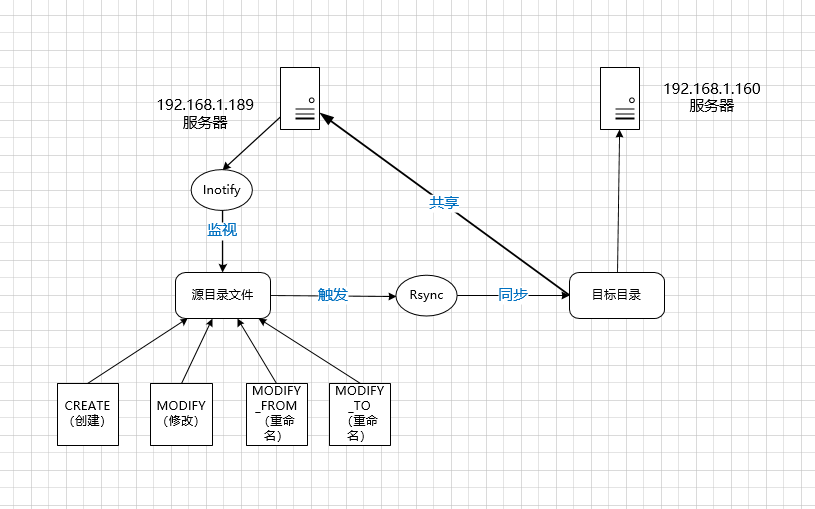
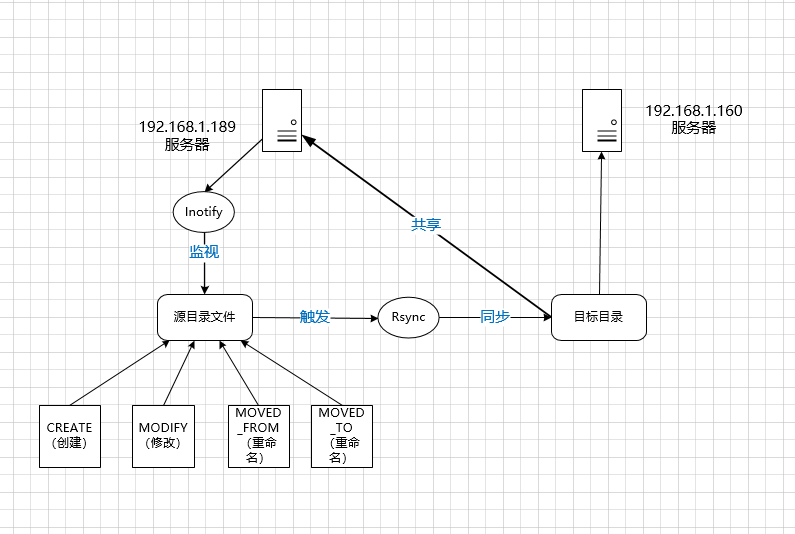
Site updated: 2022-12-27 12:32:38

Changed region(s): [[0.0, 0.0, 1.0, 1.0]]

diff --git a/archives/657b4685/index.html b/archives/657b4685/index.html
@@ -21,7 +21,7 @@
 <meta property="og:locale" content="zh_CN">
 <meta property="og:image" content="https://blog.hellshan.top/archives/657b4685/1.png">
 <meta property="article:published_time" content="2022-12-26T08:54:05.000Z">
-<meta property="article:modified_time" content="2022-12-27T01:14:54.739Z">
+<meta property="article:modified_time" content="2022-12-27T04:31:10.000Z">
 <meta property="article:author" content="HellShan">
 <meta property="article:tag" content="AD">
 <meta property="article:tag" content="database">
@@ -198,8 +198,8 @@
 <p>需要注意的是，windows版的rsync指定源目录和目标目录时要以/cygdrive开头。<br>rsync的参数可以从官网获得。其中：<br>-a, –archive 归档模式，表示以递归方式传输文件，并保持所有文件属性<br>-v, –verbose 详细模式输出<br>-z, –compress 对备份的文件在传输时进行压缩处理<br>—delete 删除那些目标目录中源目录没有的文件<br>–-progress 显示备份过程</p>
 <p>如果没有错误输出说明软件和设置是正常的。</p>
 <h3 id="使用python执行触发"><a href="#使用python执行触发" class="headerlink" title="使用python执行触发"></a>使用python执行触发</h3><p>先上脚本代码，该代码也是网上找的，修改适配python3.6或以上版本，使用subprocess模块来启动进程。</p>
-<figure class="highlight py"><table><tr><td class="gutter"><pre><span class="line">1</span><br><span class="line">2</span><br><span class="line">3</span><br><span class="line">4</span><br><span class="line">5</span><br><span class="line">6</span><br><span class="line">7</span><br><span class="line">8</span><br><span class="line">9</span><br><span class="line">10</span><br><span class="line">11</span><br><span class="line">12</span><br><span class="line">13</span><br><span class="line">14</span><br><span class="line">15</span><br><span class="line">16</span><br><span class="line">17</span><br><span class="line">18</span><br><span class="line">19</span><br><span class="line">20</span><br><span class="line">21</span><br><span class="line">22</span><br><span class="line">23</span><br><span class="line">24</span><br><span class="line">25</span><br><span class="line">26</span><br><span class="line">27</span><br><span class="line">28</span><br><span class="line">29</span><br><span class="line">30</span><br><span class="line">31</span><br><span class="line">32</span><br><span class="line">33</span><br><span class="line">34</span><br><span class="line">35</span><br><span class="line">36</span><br><span class="line">37</span><br><span class="line">38</span><br><span class="line">39</span><br><span class="line">40</span><br><span class="line">41</span><br><span class="line">42</span><br><span class="line">43</span><br><span class="line">44</span><br><span class="line">45</span><br><span class="line">46</span><br><span class="line">47</span><br><span class="line">48</span><br><span class="line">49</span><br><span class="line">50</span><br><span class="line">51</span><br><span class="line">52</span><br><span class="line">53</span><br><span class="line">54</span><br><span class="line">55</span><br><span class="line">56</span><br><span class="line">57</span><br><span class="line">58</span><br><span class="line">59</span><br><span class="line">60</span><br><span class="line">61</span><br><span class="line">62</span><br><span class="line">63</span><br><span class="line">64</span><br><span class="line">65</span><br><span class="line">66</span><br><span class="line">67</span><br><span class="line">68</span><br><span class="line">69</span><br><span class="line">70</span><br><span class="line">71</span><br><span class="line">72</span><br><span class="line">73</span><br><span class="line">74</span><br><span class="line">75</span><br><span class="line">76</span><br><span class="line">77</span><br><span class="line">78</span><br><span class="line">79</span><br><span class="line">80</span><br><span class="line">81</span><br><span class="line">82</span><br><span class="line">83</span><br><span class="line">84</span><br><span class="line">85</span><br><span class="line">86</span><br></pre></td><td class="code"><pre><span class="line"><span class="comment">#-*- coding: utf-8 -*-</span></span><br><span class="line"><span class="keyword">import</span> subprocess</span><br><span class="line"><span class="keyword">import</span> os</span><br><span class="line"><span class="comment"># import smtplib</span></span><br><span class="line"><span class="comment"># from email.mime.text import MIMEText</span></span><br><span class="line"><span class="comment"># from email.mime.multipart import MIMEMultipart</span></span><br><span class="line"><span class="comment"># from email.header import Header</span></span><br><span class="line">rsyncSrc=<span class="string">&#x27;C:\\123&#x27;</span></span><br><span class="line">rsyncDes=<span class="string">&#x27;/cygdrive/c/111&#x27;</span></span><br><span class="line">listen=<span class="string">&#x27;C:\inotifywait.exe -mrq --format &quot;%%e %%w\%%f&quot; &quot;C:\\123&quot;&#x27;</span></span><br><span class="line">popen=subprocess.Popen(listen,stdout=subprocess.PIPE,stderr=subprocess.PIPE)</span><br><span class="line"></span><br><span class="line"><span class="comment"># def smail(mailfrom,receivers,subject,body,att):</span></span><br><span class="line"><span class="comment"># sender = &#x27;devops@netinn.net&#x27;</span></span><br><span class="line"><span class="comment"># mailtotag = &#x27;devops all&#x27;</span></span><br><span class="line"><span class="comment"># smtpserver = &#x27;smtp.netinn.net&#x27;</span></span><br><span class="line"><span class="comment"># username = &#x27;devops@netinn.net&#x27;</span></span><br><span class="line"><span class="comment"># password = &#x27;Test123456&#x27; </span></span><br><span class="line"></span><br><span class="line"><span class="comment">#创建一个带附件的实例</span></span><br><span class="line"><span class="comment"># message = MIMEMultipart()</span></span><br><span class="line"><span class="comment"># message[&#x27;From&#x27;] = Header(mailfrom, &#x27;utf-8&#x27;)</span></span><br><span class="line"><span class="comment"># message[&#x27;To&#x27;] = Header(mailtotag, &#x27;utf-8&#x27;)</span></span><br><span class="line"><span class="comment"># message[&#x27;Subject&#x27;] = Header(subject, &#x27;utf-8&#x27;)</span></span><br><span class="line"></span><br><span class="line"><span class="comment">#邮件正文内容</span></span><br><span class="line"><span class="comment"># if isinstance(body,unicode):</span></span><br><span class="line"><span class="comment"># body = str(body)</span></span><br><span class="line"><span class="comment"># message.attach(MIMEText(body, &#x27;plain&#x27;, &#x27;utf-8&#x27;))</span></span><br><span class="line"></span><br><span class="line"><span class="comment"># 构造附件1，传送当前目录下的 test.txt 文件</span></span><br><span class="line"><span class="comment"># att1 = MIMEText(open(att, &#x27;rb&#x27;).read(), &#x27;base64&#x27;, &#x27;utf-8&#x27;)</span></span><br><span class="line"><span class="comment"># att1[&quot;Content-Type&quot;] = &#x27;application/octet-stream&#x27;</span></span><br><span class="line"><span class="comment"># 这里的filename可以任意写，写什么名字，邮件中显示什么名字</span></span><br><span class="line"><span class="comment"># att1[&quot;Content-Disposition&quot;] = &#x27;attachment; filename=log&#x27;</span></span><br><span class="line"><span class="comment"># message.attach(att1)</span></span><br><span class="line"></span><br><span class="line"><span class="comment"># att2 = MIMEText(open(att, &#x27;rb&#x27;).read(), &#x27;base64&#x27;, &#x27;utf-8&#x27;)</span></span><br><span class="line"><span class="comment"># att2[&quot;Content-Type&quot;] = &#x27;application/octet-stream&#x27;</span></span><br><span class="line"><span class="comment"># att2[&quot;Content-Disposition&quot;] = &#x27;attachment; filename=att&#x27;</span></span><br><span class="line"><span class="comment">#message.attach(att2)</span></span><br><span class="line"></span><br><span class="line"><span class="comment"># message[&quot;Accept-Language&quot;] = &quot;zh-CN&quot;</span></span><br><span class="line"><span class="comment"># message[&quot;Accept-Charset&quot;] = &quot;ISO-8859-1,utf-8&quot;</span></span><br><span class="line"></span><br><span class="line"><span class="comment"># try:</span></span><br><span class="line"><span class="comment"># smtpObj = smtplib.SMTP(smtpserver)</span></span><br><span class="line"><span class="comment"># smtpObj.login(username, password)</span></span><br><span class="line"><span class="comment"># smtpObj.sendmail(sender, receivers, message.as_string())</span></span><br><span class="line"><span class="comment"># print &quot;mail send&quot;</span></span><br><span class="line"><span class="comment"># except smtplib.SMTPException:</span></span><br><span class="line"><span class="comment"># print &quot;Error: send failed&quot;</span></span><br><span class="line"></span><br><span class="line"><span class="comment"># mailfrom=&#x27;cop@quyiyuan.com&#x27;</span></span><br><span class="line"><span class="comment"># receivers = [&#x27;xx@netinn.net&#x27;,&#x27;xx@netinn.net&#x27;,&#x27;xx@qq.com&#x27;,&#x27;xx@hotmail.com&#x27;,&#x27;xx@xx.com&#x27;,&#x27;xx@xx.com&#x27;] # 接收邮件</span></span><br><span class="line"></span><br><span class="line"><span class="keyword">while</span> <span class="literal">True</span>:</span><br><span class="line">    line=popen.stdout.readline().strip()</span><br><span class="line">    <span class="comment"># print(line)</span></span><br><span class="line">    lineArr=line.decode().split(<span class="string">&#x27; &#x27;</span>)</span><br><span class="line">    oper=lineArr[<span class="number">0</span>]</span><br><span class="line">    file=lineArr[<span class="number">1</span>]</span><br><span class="line">    touched=<span class="literal">False</span></span><br><span class="line">    <span class="comment"># print(file)</span></span><br><span class="line">    <span class="keyword">if</span> file.index(rsyncSrc)==<span class="number">0</span>:</span><br><span class="line">        <span class="keyword">if</span> (oper==<span class="string">&#x27;MODIFY&#x27;</span>) <span class="keyword">or</span> (oper==<span class="string">&#x27;CREATE&#x27;</span>) <span class="keyword">or</span> (oper==<span class="string">&#x27;MODIFY_FROM&#x27;</span>) <span class="keyword">or</span> (oper==<span class="string">&#x27;MODIFY_TO&#x27;</span>) <span class="keyword">or</span> (oper==<span class="string">&#x27;DELETE&#x27;</span>):</span><br><span class="line">            _cureent_file=file.replace(rsyncSrc,<span class="string">&#x27;/cygdrive/c/123&#x27;</span>)</span><br><span class="line">            cureent_file=_cureent_file.replace(<span class="string">&#x27;\\&#x27;</span>,<span class="string">&#x27;/&#x27;</span>)</span><br><span class="line">            <span class="comment"># print(cureent_file)</span></span><br><span class="line">            cmd=<span class="string">&#x27;set CYGWIN=nodosfilewarning &amp;&amp; cd /d &#x27;</span>+rsyncSrc+<span class="string">&#x27; &amp;&amp; &#x27;</span>+<span class="string">&#x27;start /b rsync -avz --port=873 --delete --progress &#x27;</span>+cureent_file+<span class="string">&#x27; &#x27;</span>+rsyncDes+<span class="string">&#x27; 2&gt;C:\\rsynclog\\error.log&#x27;</span></span><br><span class="line">            touched=<span class="literal">True</span></span><br><span class="line">            <span class="keyword">if</span> touched:</span><br><span class="line">                print(cmd)</span><br><span class="line">                rsyncAction=os.popen(cmd)</span><br><span class="line">                rsyncStat=rsyncAction.read()</span><br><span class="line">                <span class="keyword">if</span> <span class="string">&quot;speedup is&quot;</span> <span class="keyword">in</span> rsyncStat:</span><br><span class="line">                    print(file+<span class="string">&#x27; rsynced!&#x27;</span>)</span><br><span class="line">                    print(rsyncStat)</span><br><span class="line">                <span class="keyword">else</span>:</span><br><span class="line">                    print(file+<span class="string">&#x27; rsync failed!&#x27;</span>)</span><br><span class="line">                    <span class="comment"># att=&#x27;D:\\logs\\error.log&#x27;</span></span><br><span class="line">                    <span class="comment"># subject =&#x27;SyncError:&#x27;+file</span></span><br><span class="line">                    <span class="comment"># body=rsyncStat</span></span><br><span class="line"><span class="comment">#smail(mailfrom,receivers,subject,body,att)</span></span><br><span class="line"><span class="comment">#rsyncAction=subprocess.check_output(cmd1)</span></span><br><span class="line"><span class="comment">#rsyncAction=subprocess.check_output(cmd,stdout=subprocess.PIPE,stderr=subprocess.STDOUT,shell=True)</span></span><br></pre></td></tr></table></figure>
-<p>该代码还带邮件发送功能，因为没用到所以注释掉。该代码还有python识别中文字符的问题，还有待改进，目前非中文的文件已经测试正常。</p>
+<figure class="highlight py"><table><tr><td class="gutter"><pre><span class="line">1</span><br><span class="line">2</span><br><span class="line">3</span><br><span class="line">4</span><br><span class="line">5</span><br><span class="line">6</span><br><span class="line">7</span><br><span class="line">8</span><br><span class="line">9</span><br><span class="line">10</span><br><span class="line">11</span><br><span class="line">12</span><br><span class="line">13</span><br><span class="line">14</span><br><span class="line">15</span><br><span class="line">16</span><br><span class="line">17</span><br><span class="line">18</span><br><span class="line">19</span><br><span class="line">20</span><br><span class="line">21</span><br><span class="line">22</span><br><span class="line">23</span><br><span class="line">24</span><br><span class="line">25</span><br><span class="line">26</span><br><span class="line">27</span><br><span class="line">28</span><br><span class="line">29</span><br><span class="line">30</span><br><span class="line">31</span><br><span class="line">32</span><br><span class="line">33</span><br><span class="line">34</span><br><span class="line">35</span><br><span class="line">36</span><br><span class="line">37</span><br><span class="line">38</span><br><span class="line">39</span><br><span class="line">40</span><br><span class="line">41</span><br><span class="line">42</span><br><span class="line">43</span><br><span class="line">44</span><br><span class="line">45</span><br><span class="line">46</span><br><span class="line">47</span><br><span class="line">48</span><br><span class="line">49</span><br><span class="line">50</span><br><span class="line">51</span><br><span class="line">52</span><br><span class="line">53</span><br><span class="line">54</span><br><span class="line">55</span><br><span class="line">56</span><br><span class="line">57</span><br><span class="line">58</span><br><span class="line">59</span><br><span class="line">60</span><br><span class="line">61</span><br><span class="line">62</span><br><span class="line">63</span><br><span class="line">64</span><br><span class="line">65</span><br><span class="line">66</span><br><span class="line">67</span><br><span class="line">68</span><br><span class="line">69</span><br><span class="line">70</span><br><span class="line">71</span><br><span class="line">72</span><br><span class="line">73</span><br><span class="line">74</span><br><span class="line">75</span><br><span class="line">76</span><br><span class="line">77</span><br><span class="line">78</span><br><span class="line">79</span><br><span class="line">80</span><br><span class="line">81</span><br><span class="line">82</span><br><span class="line">83</span><br><span class="line">84</span><br><span class="line">85</span><br><span class="line">86</span><br><span class="line">87</span><br></pre></td><td class="code"><pre><span class="line"><span class="comment">#-*- coding: utf-8 -*-</span></span><br><span class="line"><span class="keyword">import</span> subprocess</span><br><span class="line"><span class="keyword">import</span> os</span><br><span class="line"><span class="comment"># import smtplib</span></span><br><span class="line"><span class="comment"># from email.mime.text import MIMEText</span></span><br><span class="line"><span class="comment"># from email.mime.multipart import MIMEMultipart</span></span><br><span class="line"><span class="comment"># from email.header import Header</span></span><br><span class="line">rsyncSrc=<span class="string">&#x27;C:\\123&#x27;</span></span><br><span class="line">rsyncDes=<span class="string">&#x27;/cygdrive/c/111&#x27;</span></span><br><span class="line">listen=<span class="string">&#x27;C:\inotifywait.exe -mrq --format &quot;%%e %%w\%%f&quot; &quot;C:\\123&quot;&#x27;</span></span><br><span class="line">popen=subprocess.Popen(listen,stdout=subprocess.PIPE,stderr=subprocess.PIPE)</span><br><span class="line"></span><br><span class="line"><span class="comment"># def smail(mailfrom,receivers,subject,body,att):</span></span><br><span class="line"><span class="comment"># sender = &#x27;devops@netinn.net&#x27;</span></span><br><span class="line"><span class="comment"># mailtotag = &#x27;devops all&#x27;</span></span><br><span class="line"><span class="comment"># smtpserver = &#x27;smtp.netinn.net&#x27;</span></span><br><span class="line"><span class="comment"># username = &#x27;devops@netinn.net&#x27;</span></span><br><span class="line"><span class="comment"># password = &#x27;Test123456&#x27; </span></span><br><span class="line"></span><br><span class="line"><span class="comment">#创建一个带附件的实例</span></span><br><span class="line"><span class="comment"># message = MIMEMultipart()</span></span><br><span class="line"><span class="comment"># message[&#x27;From&#x27;] = Header(mailfrom, &#x27;utf-8&#x27;)</span></span><br><span class="line"><span class="comment"># message[&#x27;To&#x27;] = Header(mailtotag, &#x27;utf-8&#x27;)</span></span><br><span class="line"><span class="comment"># message[&#x27;Subject&#x27;] = Header(subject, &#x27;utf-8&#x27;)</span></span><br><span class="line"></span><br><span class="line"><span class="comment">#邮件正文内容</span></span><br><span class="line"><span class="comment"># if isinstance(body,unicode):</span></span><br><span class="line"><span class="comment"># body = str(body)</span></span><br><span class="line"><span class="comment"># message.attach(MIMEText(body, &#x27;plain&#x27;, &#x27;utf-8&#x27;))</span></span><br><span class="line"></span><br><span class="line"><span class="comment"># 构造附件1，传送当前目录下的 test.txt 文件</span></span><br><span class="line"><span class="comment"># att1 = MIMEText(open(att, &#x27;rb&#x27;).read(), &#x27;base64&#x27;, &#x27;utf-8&#x27;)</span></span><br><span class="line"><span class="comment"># att1[&quot;Content-Type&quot;] = &#x27;application/octet-stream&#x27;</span></span><br><span class="line"><span class="comment"># 这里的filename可以任意写，写什么名字，邮件中显示什么名字</span></span><br><span class="line"><span class="comment"># att1[&quot;Content-Disposition&quot;] = &#x27;attachment; filename=log&#x27;</span></span><br><span class="line"><span class="comment"># message.attach(att1)</span></span><br><span class="line"></span><br><span class="line"><span class="comment"># att2 = MIMEText(open(att, &#x27;rb&#x27;).read(), &#x27;base64&#x27;, &#x27;utf-8&#x27;)</span></span><br><span class="line"><span class="comment"># att2[&quot;Content-Type&quot;] = &#x27;application/octet-stream&#x27;</span></span><br><span class="line"><span class="comment"># att2[&quot;Content-Disposition&quot;] = &#x27;attachment; filename=att&#x27;</span></span><br><span class="line"><span class="comment">#message.attach(att2)</span></span><br><span class="line"></span><br><span class="line"><span class="comment"># message[&quot;Accept-Language&quot;] = &quot;zh-CN&quot;</span></span><br><span class="line"><span class="comment"># message[&quot;Accept-Charset&quot;] = &quot;ISO-8859-1,utf-8&quot;</span></span><br><span class="line"></span><br><span class="line"><span class="comment"># try:</span></span><br><span class="line"><span class="comment"># smtpObj = smtplib.SMTP(smtpserver)</span></span><br><span class="line"><span class="comment"># smtpObj.login(username, password)</span></span><br><span class="line"><span class="comment"># smtpObj.sendmail(sender, receivers, message.as_string())</span></span><br><span class="line"><span class="comment"># print &quot;mail send&quot;</span></span><br><span class="line"><span class="comment"># except smtplib.SMTPException:</span></span><br><span class="line"><span class="comment"># print &quot;Error: send failed&quot;</span></span><br><span class="line"></span><br><span class="line"><span class="comment"># mailfrom=&#x27;cop@quyiyuan.com&#x27;</span></span><br><span class="line"><span class="comment"># receivers = [&#x27;xx@netinn.net&#x27;,&#x27;xx@netinn.net&#x27;,&#x27;xx@qq.com&#x27;,&#x27;xx@hotmail.com&#x27;,&#x27;xx@xx.com&#x27;,&#x27;xx@xx.com&#x27;] # 接收邮件</span></span><br><span class="line"></span><br><span class="line"><span class="keyword">while</span> <span class="literal">True</span>:</span><br><span class="line">    line=popen.stdout.readline().strip()</span><br><span class="line">    <span class="comment"># print(line)</span></span><br><span class="line">    <span class="comment"># lineArr=line.decode(&#x27;utf-8&#x27;).split(&#x27; &#x27;)</span></span><br><span class="line">    lineArr=line.decode(<span class="string">&#x27;gbk&#x27;</span>).split(<span class="string">&#x27; &#x27;</span>)</span><br><span class="line">    oper=lineArr[<span class="number">0</span>]</span><br><span class="line">    file=lineArr[<span class="number">1</span>]</span><br><span class="line">    touched=<span class="literal">False</span></span><br><span class="line">    <span class="comment"># print(file)</span></span><br><span class="line">    <span class="keyword">if</span> file.index(rsyncSrc)==<span class="number">0</span>:</span><br><span class="line">        <span class="keyword">if</span> (oper==<span class="string">&#x27;MODIFY&#x27;</span>) <span class="keyword">or</span> (oper==<span class="string">&#x27;CREATE&#x27;</span>) <span class="keyword">or</span> (oper==<span class="string">&#x27;MOVED_FROM&#x27;</span>) <span class="keyword">or</span> (oper==<span class="string">&#x27;MOVED_TO&#x27;</span>) <span class="keyword">or</span> (oper==<span class="string">&#x27;DELETE&#x27;</span>):</span><br><span class="line">            _cureent_file=file.replace(rsyncSrc,<span class="string">&#x27;/cygdrive/c/123&#x27;</span>)</span><br><span class="line">            cureent_file=_cureent_file.replace(<span class="string">&#x27;\\&#x27;</span>,<span class="string">&#x27;/&#x27;</span>)</span><br><span class="line">            <span class="comment"># print(cureent_file)</span></span><br><span class="line">            cmd=<span class="string">&#x27;set CYGWIN=nodosfilewarning &amp;&amp; cd /d &#x27;</span>+rsyncSrc+<span class="string">&#x27; &amp;&amp; &#x27;</span>+<span class="string">&#x27;start /b rsync -avz --progress --ignore-errors &#x27;</span>+cureent_file+<span class="string">&#x27; &#x27;</span>+rsyncDes+<span class="string">&#x27; 2&gt;&gt;C:\\rsynclog\\error.log&#x27;</span></span><br><span class="line">            touched=<span class="literal">True</span></span><br><span class="line">            <span class="keyword">if</span> touched:</span><br><span class="line">                <span class="comment">#print(cmd)</span></span><br><span class="line">                rsyncAction=os.popen(cmd)</span><br><span class="line">                rsyncStat=rsyncAction.read()</span><br><span class="line">                <span class="keyword">if</span> <span class="string">&quot;speedup is&quot;</span> <span class="keyword">in</span> rsyncStat:</span><br><span class="line">                    print(file+<span class="string">&#x27; rsynced!&#x27;</span>)</span><br><span class="line">                    print(rsyncStat)</span><br><span class="line">                <span class="keyword">else</span>:</span><br><span class="line">                    print(file+<span class="string">&#x27; rsync failed!&#x27;</span>)</span><br><span class="line">                    <span class="comment"># att=&#x27;D:\\logs\\error.log&#x27;</span></span><br><span class="line">                    <span class="comment"># subject =&#x27;SyncError:&#x27;+file</span></span><br><span class="line">                    <span class="comment"># body=rsyncStat</span></span><br><span class="line"><span class="comment">#smail(mailfrom,receivers,subject,body,att)</span></span><br><span class="line"><span class="comment">#rsyncAction=subprocess.check_output(cmd1)</span></span><br><span class="line"><span class="comment">#rsyncAction=subprocess.check_output(cmd,stdout=subprocess.PIPE,stderr=subprocess.STDOUT,shell=True)</span></span><br></pre></td></tr></table></figure>
+<p>该代码还带邮件发送功能，因为没用到所以注释掉。</p>
 <p>命令提示符运行测试，把代码保存为inotify+rsync.py：<br><code>python inotify+rsync.py</code></p>
 <p><img src="/archives/657b4685/6.png" alt=" "></p>
 <p>测试OK！</p>
@@ -210,7 +210,7 @@
 
 
 
-    <a data-url="https://blog.hellshan.top/archives/657b4685/" data-id="clc5jyn3q000lm1o921l8bpt8" class="article-share-link"><i class="fa fa-share"></i>分享到</a>
+    <a data-url="https://blog.hellshan.top/archives/657b4685/" data-id="clc5qfaf9000l6po91qahea5f" class="article-share-link"><i class="fa fa-share"></i>分享到</a>
 <script>
     (function ($) {
         $('body').on('click', function() {
@@ -290,7 +290,7 @@
         "url": "https://blog.hellshan.top/archives/657b4685/",
         "description": "
 前言很多企业（特别是制造业）都通过收费的软件进行共享文件服务器的备份，而中小企业基于成本问题，往往会使用免费的软件，例如feefilesync就是一个比较优秀的开源备份同步软件。但是有些场合需要用到实时同步，备份软件做不了实时同步或者只能做到文件量不大的同步，如feefilesync有实时同步功能，文件较少的时候还是挺好用的，可以做到以秒为单位的文件同步，缺点是每次同步的时候都会扫一遍目录，通过",
-        "wordCount": 839
+        "wordCount": 849
     }
 </script>
 

diff --git a/categories/index.html b/categories/index.html
@@ -154,7 +154,7 @@
 
 
 
-    <a data-url="https://blog.hellshan.top/categories/index.html" data-id="clc5jyn3e0006m1o93fu7bvt5" class="article-share-link"><i class="fa fa-share"></i>分享到</a>
+    <a data-url="https://blog.hellshan.top/categories/index.html" data-id="clc5qfaew00066po92y56gcft" class="article-share-link"><i class="fa fa-share"></i>分享到</a>
 <script>
     (function ($) {
         $('body').on('click', function() {

diff --git a/archives/7c1819b2/index.html b/archives/7c1819b2/index.html
@@ -225,7 +225,7 @@ vfio
 
 
 
-    <a data-url="https://blog.hellshan.top/archives/7c1819b2/" data-id="clc5jyn3l000gm1o90a7w9wyi" class="article-share-link"><i class="fa fa-share"></i>分享到</a>
+    <a data-url="https://blog.hellshan.top/archives/7c1819b2/" data-id="clc5qfaf3000g6po94l658l45" class="article-share-link"><i class="fa fa-share"></i>分享到</a>
 <script>
     (function ($) {
         $('body').on('click', function() {

diff --git a/dashboard/index.html b/dashboard/index.html
@@ -154,7 +154,7 @@
 
 
 
-    <a data-url="https://blog.hellshan.top/dashboard/index.html" data-id="clc5jyn3h000am1o9awsu40ae" class="article-share-link"><i class="fa fa-share"></i>分享到</a>
+    <a data-url="https://blog.hellshan.top/dashboard/index.html" data-id="clc5qfaf0000a6po9hags4g1k" class="article-share-link"><i class="fa fa-share"></i>分享到</a>
 <script>
     (function ($) {
         $('body').on('click', function() {

diff --git a/archives/15b0611c/index.html b/archives/15b0611c/index.html
@@ -303,7 +303,7 @@
 
 
 
-    <a data-url="https://blog.hellshan.top/archives/15b0611c/" data-id="clc5jyn4r002sm1o9308qgika" class="article-share-link"><i class="fa fa-share"></i>分享到</a>
+    <a data-url="https://blog.hellshan.top/archives/15b0611c/" data-id="clc5qfagi002s6po91uz6el7e" class="article-share-link"><i class="fa fa-share"></i>分享到</a>
 <script>
     (function ($) {
         $('body').on('click', function() {

diff --git a/archives/18899723/index.html b/archives/18899723/index.html
@@ -211,7 +211,7 @@
 
 
 
-    <a data-url="https://blog.hellshan.top/archives/18899723/" data-id="clc5jyn3t000rm1o9e2rtgkgo" class="article-share-link"><i class="fa fa-share"></i>分享到</a>
+    <a data-url="https://blog.hellshan.top/archives/18899723/" data-id="clc5qfafc000r6po9cajwgy7m" class="article-share-link"><i class="fa fa-share"></i>分享到</a>
 <script>
     (function ($) {
         $('body').on('click', function() {

diff --git a/archives/26f5a537/index.html b/archives/26f5a537/index.html
@@ -227,7 +227,7 @@
 
 
 
-    <a data-url="https://blog.hellshan.top/archives/26f5a537/" data-id="clc5jyn3f0007m1o90p023c51" class="article-share-link"><i class="fa fa-share"></i>分享到</a>
+    <a data-url="https://blog.hellshan.top/archives/26f5a537/" data-id="clc5qfaex00076po9gb1r2fn3" class="article-share-link"><i class="fa fa-share"></i>分享到</a>
 <script>
     (function ($) {
         $('body').on('click', function() {

diff --git a/archives/28b8f600/index.html b/archives/28b8f600/index.html
@@ -203,7 +203,7 @@
 
 
 
-    <a data-url="https://blog.hellshan.top/archives/28b8f600/" data-id="clc5jyn3j000fm1o96jphhp72" class="article-share-link"><i class="fa fa-share"></i>分享到</a>
+    <a data-url="https://blog.hellshan.top/archives/28b8f600/" data-id="clc5qfaf2000f6po9dl38f3qq" class="article-share-link"><i class="fa fa-share"></i>分享到</a>
 <script>
     (function ($) {
         $('body').on('click', function() {

diff --git a/archives/31bd6bb1/index.html b/archives/31bd6bb1/index.html
@@ -210,7 +210,7 @@
 
 
 
-    <a data-url="https://blog.hellshan.top/archives/31bd6bb1/" data-id="clc5jyn4f0028m1o9feynfeku" class="article-share-link"><i class="fa fa-share"></i>分享到</a>
+    <a data-url="https://blog.hellshan.top/archives/31bd6bb1/" data-id="clc5qfag500286po939prdg67" class="article-share-link"><i class="fa fa-share"></i>分享到</a>
 <script>
     (function ($) {
         $('body').on('click', function() {

diff --git a/archives/34986ae2/index.html b/archives/34986ae2/index.html
@@ -343,7 +343,7 @@
 
 
 
-    <a data-url="https://blog.hellshan.top/archives/34986ae2/" data-id="clc5jyn42001bm1o96jriaubx" class="article-share-link"><i class="fa fa-share"></i>分享到</a>
+    <a data-url="https://blog.hellshan.top/archives/34986ae2/" data-id="clc5qfafl001b6po9abuif1yl" class="article-share-link"><i class="fa fa-share"></i>分享到</a>
 <script>
     (function ($) {
         $('body').on('click', function() {

diff --git a/archives/41789693/index.html b/archives/41789693/index.html
@@ -228,7 +228,7 @@
 
 
 
-    <a data-url="https://blog.hellshan.top/archives/41789693/" data-id="clc5jyn4t002wm1o953fmb4uz" class="article-share-link"><i class="fa fa-share"></i>分享到</a>
+    <a data-url="https://blog.hellshan.top/archives/41789693/" data-id="clc5qfagj002w6po9frwy2p49" class="article-share-link"><i class="fa fa-share"></i>分享到</a>
 <script>
     (function ($) {
         $('body').on('click', function() {

diff --git a/archives/42ad09e8/index.html b/archives/42ad09e8/index.html
@@ -409,7 +409,7 @@
 
 
 
-    <a data-url="https://blog.hellshan.top/archives/42ad09e8/" data-id="clc5jyn5z007hm1o97pacgbq0" class="article-share-link"><i class="fa fa-share"></i>分享到</a>
+    <a data-url="https://blog.hellshan.top/archives/42ad09e8/" data-id="clc5qfahz007h6po9e16l1pf3" class="article-share-link"><i class="fa fa-share"></i>分享到</a>
 <script>
     (function ($) {
         $('body').on('click', function() {
